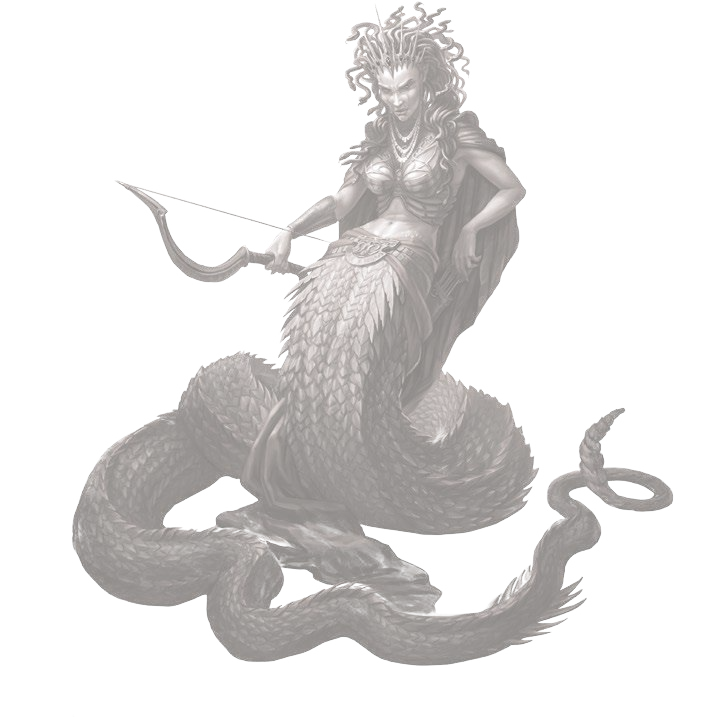
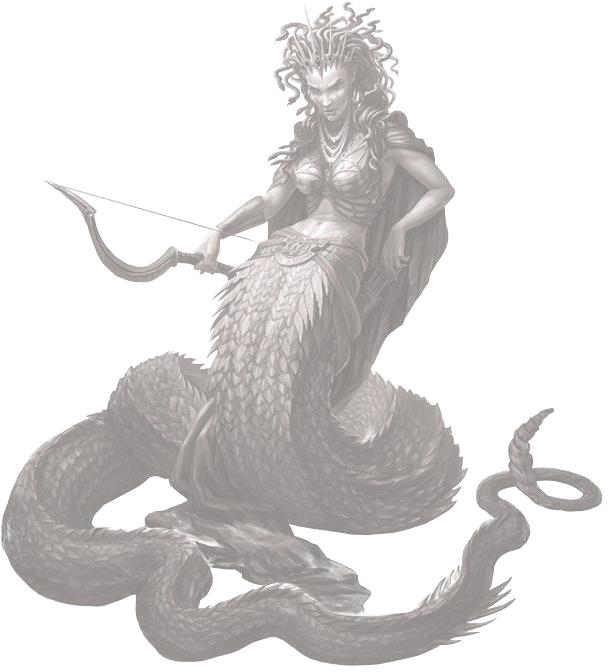
Scenario end: solo campaign (#211)
* Scenario end: solo campaign

* Fix hyperlinkage

* Skip some setup

* Update sections/game_modes.tex

* Resize meduza

* po4a

* Fit Medusa tightly

* resize meduza

* po4a

* merge confict

* po4a

* move medusa

---------

Changed region(s): [[0.0, 0.0, 0.9984, 1.0]]

diff --git a/sections/scenario_end.tex b/sections/scenario_end.tex
@@ -16,13 +16,22 @@ Treat the cards in their Deck as being Removed from the game for the rest of the
 If you are Eliminated, you may still participate in the game by controlling Neutral Units.\par
 \note{4}{If you Eliminate all enemy Factions, you immediately win the Scenario.}\par
 
-\columnbreak
-
 In \textbf{Clash} Scenarios with three or more players, collecting \textbf{a Faction Cube} from every enemy player immediately wins you the game.
 Other Scenario specific rules may also modify the outcome of collecting Faction Cubes.
 
+\columnbreak
+
+After finishing a \textbf{Solo Campaign} scenario, reset your Hero's Experience Level to 1, and prepare the starting deck for the next scenario of the campaign.
+It will consist of:
+\begin{itemize}
+  \item all the \hyperlink{Statistic}{Statistic} cards from your deck,
+  \item the level 1 \hyperlink{Specialty}{Specialty} card,
+  \item 5 other non-Specialty cards of your choice from your deck.
+\end{itemize}
+Skip steps 11-13 of Setup for the next scenario of the campaign.
+
 \vspace*{\fill}
-\hspace{-6em}
-\includegraphics[width=2\linewidth]{\art/medusa.png}
+\hspace{-3em}
+\includegraphics[width=1.7\linewidth]{\art/medusa.png}
 
 \end{multicols*}

diff --git a/sections/deckbuilding.tex b/sections/deckbuilding.tex
@@ -37,7 +37,7 @@ Each player's Deck starts with 9 cards, built during the game's setup.
 
 \clearpage
 
-\subsection*{\hypertarget{Ability}{Ability and Statistic Cards}}
+\subsection*{\hypertarget{Ability}{Ability} and \hypertarget{Statistic}{Statistic} Cards}
 
 All Ability and Statistic cards\index{Statistic Cards} have a \textbf{Basic Effect}\index{Basic Effect} and a stronger \textbf{Expert} \includesvg[height=10px]{\svgs/expert.svg} \textbf{Effect}\index{Expert Effect}, which is shown below the Basic Effect.
 Whenever you play an Ability or Statistic card, you must choose which effect you are using.

diff --git a/sections/game_modes.tex b/sections/game_modes.tex
@@ -11,7 +11,7 @@ A fully competitive mode for 2-3 players.
 
 \subsection*{Campaign}
 A single player mode of interconnected Scenarios against an enemy AI.
-For rules unique to Solo Mode\index{Solo Mode}, see \hyperlink{AIrules}{the AI rules}.
+For rules unique to Solo Mode\index{Solo Mode}, see \hyperlink{AIrules}{the AI rules} and \hyperlink{End}{Scenario end}.
 Further rules changes are detailed in the Campaign Mission Books.
 
 \subsection*{Alliance}
